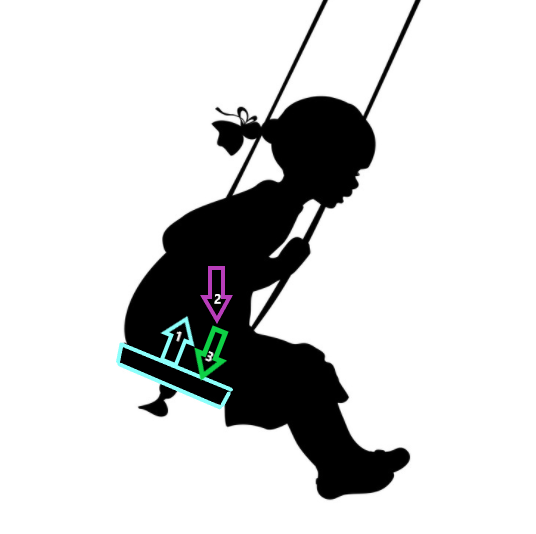
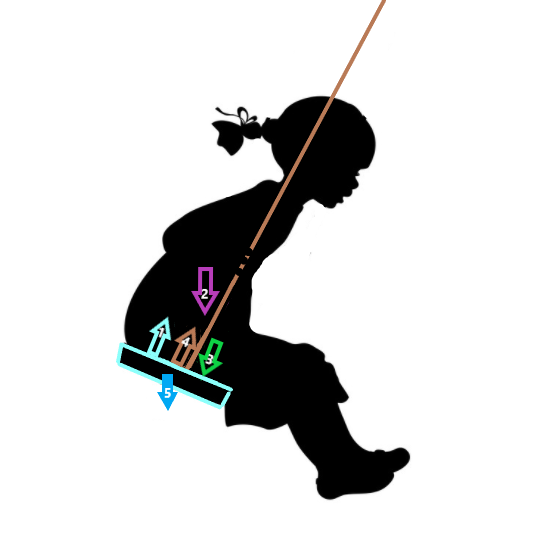
eds

diff --git a/force-definition/index.html b/force-definition/index.html
@@ -191,12 +191,13 @@ We have now identified all forces acting on the car and on the man.
 
 <div class="page" id="page2">
 
+A girl is swinging on a swing. Can you identify all of the forces on the girl and on the swing seat?
 
 <div class="container">
   <img src="GirlSwinging2.PNG" alt="Snow" style="width:70%;">
   
   <div class="centered1"><select class="fib_select" id="FIB1" onchange="fibUpdate('FIB1')">
-          <option disabled="" selected="" value="#ffffff">Identify this force (#1):</option>
+          <option disabled="" selected="" value="#ffffff">Identify force #1:</option>
           <option value="#ed8587">force of gravity on girl</option>
           <option value="#ed8587">contact force of girl on swing seat</option>
           <option value="#11bf7a">contact force of swing seat on girl</option>
@@ -204,7 +205,7 @@ We have now identified all forces acting on the car and on the man.
         </select>
         </div>
     <div class="centered2"><select class="fib_select" id="FIB2" onchange="fibUpdate('FIB2')">
-          <option disabled="" selected="" value="#ffffff">Identify this force (#2):</option>
+          <option disabled="" selected="" value="#ffffff">Identify force #2:</option>
           <option value="#11bf7a">force of gravity on girl</option>
           <option value="#ed8587">contact force of girl on swing seat</option>
           <option value="#ed8587">contact force of swing seat on girl</option>
@@ -212,10 +213,28 @@ We have now identified all forces acting on the car and on the man.
         </select>
         </div>
     <div class="centered3"><select class="fib_select" id="FIB3" onchange="fibUpdate('FIB3')">
-          <option disabled="" selected="" value="#ffffff">Identify this force (#3):</option>
+          <option disabled="" selected="" value="#ffffff">Identify force #3:</option>
           <option value="#ed8587">force of gravity on girl</option>
           <option value="#11bf7a">contact force of girl on swing seat</option>
           <option value="#ed8587">contact force of swing seat on girl</option>
+          <option value="#ed8587">centrifugal force</option>
+        </select>
+        </div>
+
+    <div class="centered4"><select class="fib_select" id="FIB4" onchange="fibUpdate('FIB4')">
+          <option disabled="" selected="" value="#ffffff">Identify force #4:</option>
+          <option value="#ed8587">force of gravity on swing seat</option>
+          <option value="#11bf7a">contact force of rope on swing seat</option>
+          <option value="#ed8587">contact force of swing seat on rope</option>
+          <option value="#ed8587">centrifugal force</option>
+        </select>
+        </div>
+
+        <div class="centered5"><select class="fib_select" id="FIB5" onchange="fibUpdate('FIB5')">
+          <option disabled="" selected="" value="#ffffff">Identify force #5:</option>
+          <option value="#11bf7a">force of gravity on swing seat</option>
+          <option value="#ed8587">contact force of rope on swing seat</option>
+          <option value="#ed8587">contact force of swing seat on rope</option>
           <option value="#ed8587">centrifugal force</option>
         </select>
         </div>

diff --git a/main.css b/main.css
@@ -563,3 +563,17 @@ ol.brm-list.nested-list > li:last-of-type {
   left: 65%;
   transform: translate(-50%, -50%);
 }
+
+.centered4 {
+  position: absolute;
+  top: 70%;
+  left: 17%;
+  transform: translate(-50%, -50%);
+}
+
+.centered5 {
+  position: absolute;
+  top: 85%;
+  left: 25%;
+  transform: translate(-50%, -50%);
+}
